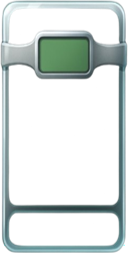
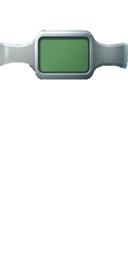
Smaller changes and Fix-up
- InfoDrawText > ClubCardInfoDrawText
- text moved to TextGet and csv for possible future translations
- text changes
- sleeve counter display simplification (removed glass frame)

diff --git a/BondageClub/Screens/MiniGame/ClubCard/ClubCard.js b/BondageClub/Screens/MiniGame/ClubCard/ClubCard.js
@@ -5828,7 +5828,8 @@ function ClubCardRenderPanel() {
 function ClubCardDrawButton() {
 	if (ClubCardTurnCardPlayed == 0 && ClubCardPlayer[0].Deck.length > 0) {
 		DrawButton(1705, 805, 90, 190, null, "White", "", TextGet("Draw"));
-		DrawImageResize("Screens/MiniGame/ClubCard/Sleeve/" + ClubCardPlayer[0].Sleeve + ".png", 1712, 813, 76, 175);
+		DrawImageResize("Screens/MiniGame/ClubCard/Sleeve/" + ClubCardPlayer[0].Sleeve + ".png", 1710, 810, 80, 180);
+        DrawImageResize("Screens/MiniGame/ClubCard/Frame/SleeveBorder.png", 1708, 808, 84, 184);
 		DrawImageResize("Screens/MiniGame/ClubCard/Frame/CountDisplay.png", 1708, 808, 84, 184);
 		if (ClubCardPlayer[0].Deck.length < 10) {
 			DrawTextFit("0"+ClubCardPlayer[0].Deck.length.toString(), 1750, 850, 25, "#c3facf");
@@ -6052,7 +6053,7 @@ function ClubCardRenderPopup(Timestamp) {
 		
 		// Create columns for more compact layout
 		const col1X = leftMargin;        // Title column X position
-		const col2X = leftMargin + 236;  // Description column X position
+		const col2X = leftMargin + 180;  // Description column X position
 		const col3X = 750;               // Main title X position
 		
 		// Base Y positions
@@ -6069,40 +6070,41 @@ function ClubCardRenderPopup(Timestamp) {
 		
 		// Column widths
 		const col1Width = 300;
-		const col2Width = 750;
+		const col2Width = 800;
 		const col3Width = 200;
 		
 		// Main title - Column 3
-		InfoDrawText("Info drop", col3X, startY - 10, 32, buttonColor, "Black", col3Width);
-		
+		ClubCardInfoDrawText(TextGet("InfoPopupTitle"), col3X, startY - 10, 32, buttonColor, "Black", col3Width);
+
 		// Row 1: Fame
-		InfoDrawText("Fame:", col1X, rowY[0], 32, buttonColor, "Black", col1Width);
-		let textY = rowY[0] - 20; // Adjust to vertically center with icon/title
-		textY = InfoDrawText("Reach 100 Fame the earliest to win!", col2X, textY, 22, buttonColor, null, col2Width);
-		textY = InfoDrawText("Earn Fame every turn from cards present on your board.", col2X, textY, 22, buttonColor, null, col2Width);
-		InfoDrawText("Be aware, if your Money is below 0, you don't gain Fame that turn!", col2X, textY, 22, buttonColor, null, col2Width);
-		
+		ClubCardInfoDrawText(TextGet("InfoFameTitle")+":", col1X, rowY[0], 32, buttonColor, "Black", col1Width);
+		let textY = rowY[0] - 25; // Adjust to vertically center with icon/title
+		textY = ClubCardInfoDrawText(TextGet("InfoFameDescription1"), col2X, textY, 22, buttonColor, null, col2Width);
+		textY = ClubCardInfoDrawText(TextGet("InfoFameDescription2"), col2X, textY, 22, buttonColor, null, col2Width);
+		ClubCardInfoDrawText(TextGet("InfoFameDescription3"), col2X, textY, 22, buttonColor, null, col2Width);
+
 		// Row 2: Money
-		InfoDrawText("Money:", col1X, rowY[1], 32, buttonColor, "Black", col1Width);
+		ClubCardInfoDrawText(TextGet("InfoMoneyTitle")+":", col1X, rowY[1], 32, buttonColor, "Black", col1Width);
 		textY = rowY[1] - 10; // Adjust for vertical centering
-		textY = InfoDrawText("Earn Money every turn from cards present on your board.", col2X, textY, 22, buttonColor, null, col2Width);
-		InfoDrawText("Money can be used to buy new Buildings.", col2X, textY, 22, buttonColor, null, col2Width);
-		
+		textY = ClubCardInfoDrawText(TextGet("InfoMoneyDescription1"), col2X, textY, 22, buttonColor, null, col2Width);
+		ClubCardInfoDrawText(TextGet("InfoMoneyDescription2"), col2X, textY, 22, buttonColor, null, col2Width);
+
 		// Row 3: Building tiers
-		InfoDrawText("Building tiers:", col1X, rowY[2], 32, buttonColor, "Black", col1Width);
-		textY = rowY[2] - 10; // Adjust for vertical centering
-		textY = InfoDrawText("Their levels can be upgraded to grow the space on your board.", col2X, textY, 22, buttonColor, null, col2Width);
-		InfoDrawText("The better your tier, the more cards can join the game.", col2X, textY, 22, buttonColor, null, col2Width);
-		
+		ClubCardInfoDrawText(TextGet("InfoBuildingTiersTitle")+":", col1X, rowY[2], 32, buttonColor, "Black", col1Width);
+		textY = rowY[2] - 25; // Adjust for vertical centering
+		textY = ClubCardInfoDrawText(TextGet("InfoBuildingTiersDescription1"), col2X, textY, 22, buttonColor, null, col2Width);
+		textY =ClubCardInfoDrawText(TextGet("InfoBuildingTiersDescription2"), col2X, textY, 22, buttonColor, null, col2Width);
+		ClubCardInfoDrawText(TextGet("InfoBuildingTiersDescription3"), col2X, textY, 22, buttonColor, null, col2Width);
+
 		// Row 4: Liabilities
-		InfoDrawText("Liabilities:", col1X, rowY[3], 32, buttonColor, "Black", col1Width);
+		ClubCardInfoDrawText(TextGet("InfoLiabilitiesTitle")+":", col1X, rowY[3], 32, buttonColor, "Black", col1Width);
 		textY = rowY[3]; // Adjust for vertical centering
-		InfoDrawText("Played into opponent's club, take up space and cause negative effects!", col2X, textY, 22, buttonColor, null, col2Width);
-		
+		ClubCardInfoDrawText(TextGet("InfoLiabilitiesDescription1"), col2X, textY, 22, buttonColor, null, col2Width);
+
 		// Row 5: Streets
-		InfoDrawText("Streets:", col1X, rowY[4], 32, buttonColor, "Black", col1Width);
+		ClubCardInfoDrawText(TextGet("InfoStreetsTitle")+":", col1X, rowY[4], 32, buttonColor, "Black", col1Width);
 		textY = rowY[4]; // Adjust for vertical centering
-		InfoDrawText("In other words your DiscardPile, check old cards and their effects there.", col2X, textY, 22, buttonColor, null, col2Width);
+		ClubCardInfoDrawText(TextGet("InfoStreetsDescription1"), col2X, textY, 22, buttonColor, null, col2Width);
 		
 		return;
 	}
@@ -6132,7 +6134,7 @@ function ClubCardRenderPopup(Timestamp) {
  * @param {number} [MaxWidth] - Optional maximum width before wrapping
  * @returns {number} - Returns new Y position after drawing
  */
-function InfoDrawText(Text, X, Y, Size, Color, BackColor, MaxWidth = 1200) {
+function ClubCardInfoDrawText(Text, X, Y, Size, Color, BackColor, MaxWidth = 1200) {
     if (!Text) return Y;
     const oldFont = MainCanvas.font;
 
